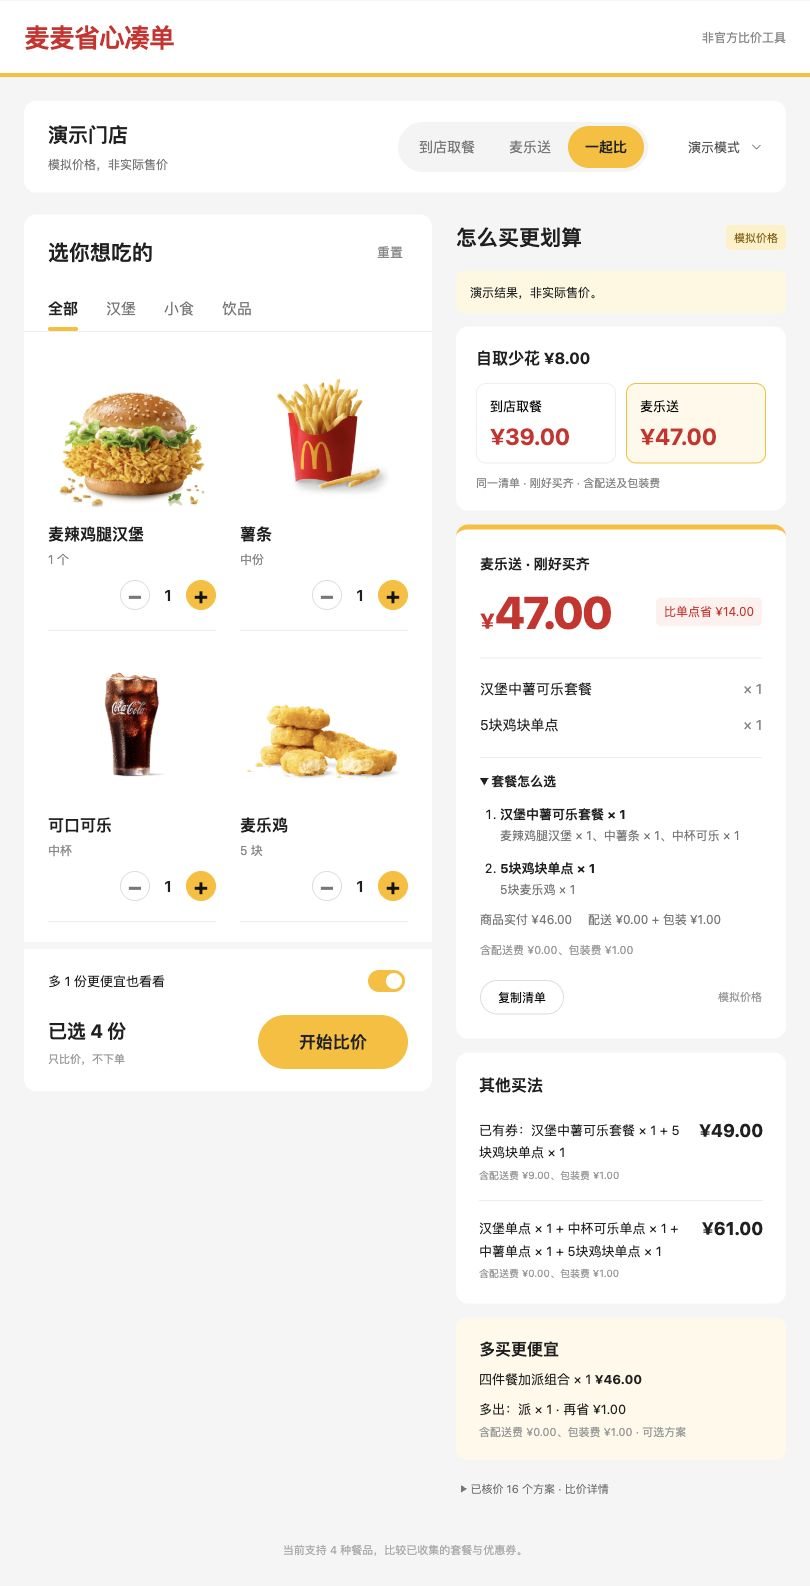
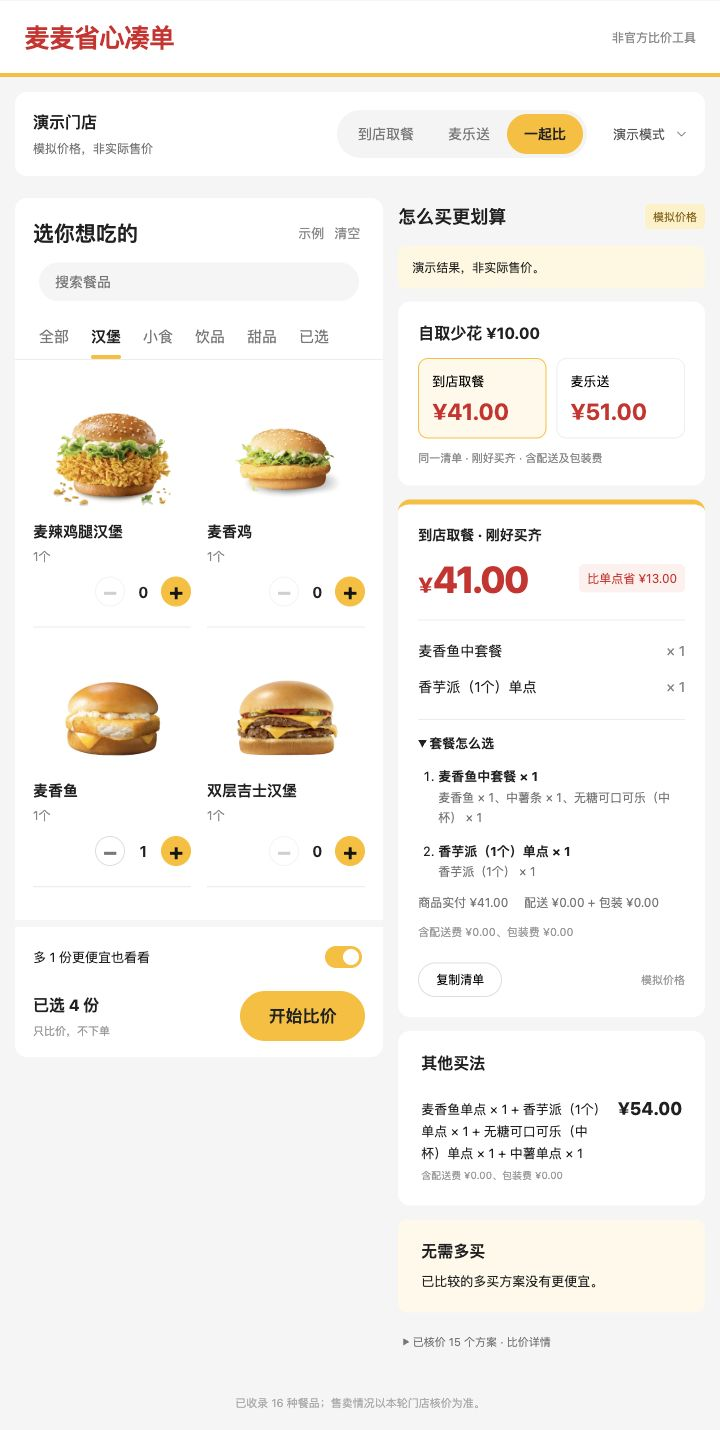
Document 16-food catalog and live validation

diff --git a/README.md b/README.md
@@ -33,15 +33,28 @@ python3 web/server.py
 
 启动：`python3 web/server.py`，然后打开 **http://127.0.0.1:8765**。Mac 也可运行 `bash 打开网页版.command`。
 
-- 直接调整四种餐品的数量（每种0–2份），切换自取、外送或“一起比”，选择严格买齐或最多多1份。
+- 直接调整16种餐品的数量（每种0–2份），切换自取、外送或“一起比”，选择严格买齐或最多多1份。
 - “一起比”用同一份食品清单，分别查询两种方式的菜单、券和整单费用，展示含费用的价差；点击任一方式查看详细买法。某一方式查询失败时保留另一方式结果，不补造价格。
 - 展开“套餐怎么选”可看到每个套餐的具体组成、数量、是否使用已有券，以及商品实付和配送/包装费用；复制清单也包含这些组成。
 - 比较结果展示套餐补单清单、总额、相比单点的节省额以及已包含的配送/包装费；可以复制购买清单。
 - 默认模拟演示，不需要登录；所有模拟金额均明确标注为虚构。
 - 真实查询使用本机 Token 和 `private/pickup-snapshot.json`、`private/delivery-snapshot.json` 中已配置的门店及套餐范围。请先让助手按 `skills/mcd-smart-basket/references/live-workflow.md` 准备快照；外送还需该次已授权地址查询的 `private/addresses-response.json`。这些账号文件不随仓库发布。
-- 每轮重新读取官方菜单、可用券和套餐详情，再对最多10个候选调用官方整单计价；没有用旧报价冒充实时价格。外送先核对已绑定地址仍存在、门店仍匹配。每轮只核对已收集的套餐配置，不扫描全店。
-- 网页首版使用北京海淀镇餐厅的已验证设置，支持麦辣鸡腿汉堡、中薯、中可乐、5块麦乐鸡；尚未提供自由搜索门店、任意餐品和特调编辑。
+- 每轮重新读取官方菜单、可用券和套餐详情，按所选食品筛选最多24个相关商品详情，再对每种方式最多10个候选调用官方整单计价；没有用旧报价冒充实时价格。外送先确认已授权地址仍存在，再查询当前可配送门店：优先原门店；原门店不在列表时使用官方返回的首个门店，并在结果中显示名称。每轮只核对已收集的套餐配置，不扫描全店。
+- 网页使用北京海淀镇餐厅的已配置设置，已收录16种明确规格的餐品，支持分类、搜索和“已选”筛选；尚未提供自由搜索门店、任意餐品和特调编辑。
 - 服务仅监听本机。浏览器只收到脱敏结果；Token、券码、详细地址和原始请求留在本机。跨站请求及非本机 Host 被拒绝。此版本不是公网托管网站。
+
+## 当前餐品范围
+
+| 分类 | 餐品 |
+| --- | --- |
+| 汉堡 | 麦辣鸡腿汉堡、麦香鸡、麦香鱼、双层吉士汉堡、培根安格斯厚牛堡、芝士安格斯厚牛堡 |
+| 小食 | 中薯、5块麦乐鸡、2块麦辣鸡翅、小杯玉米杯 |
+| 饮品 | 中杯可口可乐、中杯无糖可口可乐、盒装100%苹果汁、黄金橙橙 |
+| 甜品 | 菠萝派、香芋派 |
+
+菜单图和食品规格来自官方 MCP 详情；实际是否可售、可用券和价格每轮重新查询。普通可乐与无糖可乐、菠萝派与香芋派分别建模，不替换成同一种食品。每个商品最多枚举64种已识别的固定配置、总计最多80个配置，超过上限的商品或配置跳过并计入未纳入数量；单个套餐轮次中的混合口味选择暂不支持。
+
+新增餐品也支持离线演示：价格与套餐为明确标记的合成数据，不代表真实菜单促销。真实模式按当前门店菜单查找相关套餐，并保留单点基准；不承诺穷尽全店套餐。
 
 ## 怎么用
 
@@ -120,7 +133,7 @@ Mac 上可运行 `bash 查看演示.command`。网页上传的脚本可能没有
 python3 -m unittest discover -s tests -v
 ```
 
-测试覆盖配送费导致的排序反转、重复券、规格保持、互斥、报价过期、上下文绑定、篡改购物车、搜索截断，以及40组随机小菜单与独立暴力枚举的结果一致性。共49项本地测试通过，此前另有11个真实官方整单报价验证；本轮网页“一起比”又分别完成自取6个、外送6个报价验证，见 VALIDATION.md。
+测试覆盖配送费导致的排序反转、重复券、规格保持、互斥、报价过期、上下文绑定、篡改购物车、搜索截断，以及40组随机小菜单与独立暴力枚举的结果一致性。共55项本地测试通过，此前另有11个真实官方整单报价验证；本轮网页“一起比”又分别完成自取6个、外送6个报价验证，见 VALIDATION.md。
 
 ## 参赛准备
 

diff --git a/VALIDATION.md b/VALIDATION.md
@@ -31,3 +31,12 @@
 - 套餐组成数量与用户目标清单一致，商品实付加配送及包装费等于总额，不重复加费。
 - 本轮49项本地测试通过；真实报价与界面操作验证单独记录，不把模拟测试算作真实 MCP 调用。
 - 本轮浏览器真实“一起比”完成：同一四件清单自取47.50元，外送65.20元；外送商品实付56.50元、配送6元、包装2.70元。两侧分别核价6个方案，切换结果、展开组成与复制清单正常。此为2026-10-16测试记录，非价格承诺。
+
+## 2026-10-17 餐品扩充
+
+- 从4种扩充为16种明确规格餐品；全部在自取和外送官方详情中核对食品身份，商品图片使用官方菜单地址。
+- 新增搜索、甜品分类、“已选”筛选与清空；默认四件清单仍可用“示例”恢复。
+- 相关套餐按目标食品发现，并保留同一父商品下的不同口味配置；普通/无糖可乐、两种派保持分开，不用名称相近推断可替换。
+- 本地55项测试通过，包含全部16种食品两种方式的模拟购买、两种派共用父商品时的拆分、无糖饮料保留及新汉堡加甜品的数量一致性。
+- 新增配送门店变化测试：原门店业务编码改变或原门店不再返回时，菜单、券与商品详情均使用本轮返回的门店和业务编码，不沿用旧上下文。
+- 新增四件清单（麦香鱼、中薯、中杯无糖可乐、香芋派）真实验证：海淀镇餐厅自取42元，清华大学-澜园(家属区)餐厅外送57.20元，两侧各完成4个官方整单计价。外送按当前地址返回的可配送门店查询；这是2026-10-17测试记录，不保证当前价格。

diff --git a/SUBMISSION.md b/SUBMISSION.md
@@ -1,6 +1,6 @@
 # 发布与报名草稿
 
-状态：本地网页版、49项测试及真实自取/外送报价已完成；GitHub 公开仓库已发布，已发布源码此前46项测试通过，本轮新增3项双方式与清单验证；官方报名尚未提交，参赛者已同意声明与规则，正在先完善产品。
+状态：本地网页版、55项测试及真实自取/外送报价已完成；GitHub 公开仓库已发布，已发布源码此前46项测试通过，本轮扩充至16种餐品并加入规格、口味与搜索验证；官方报名尚未提交，参赛者已同意声明与规则，正在先完善产品。
 
 GitHub 账号：`3398313087-ux`。仓库名：`mcd-smart-basket`。
 
